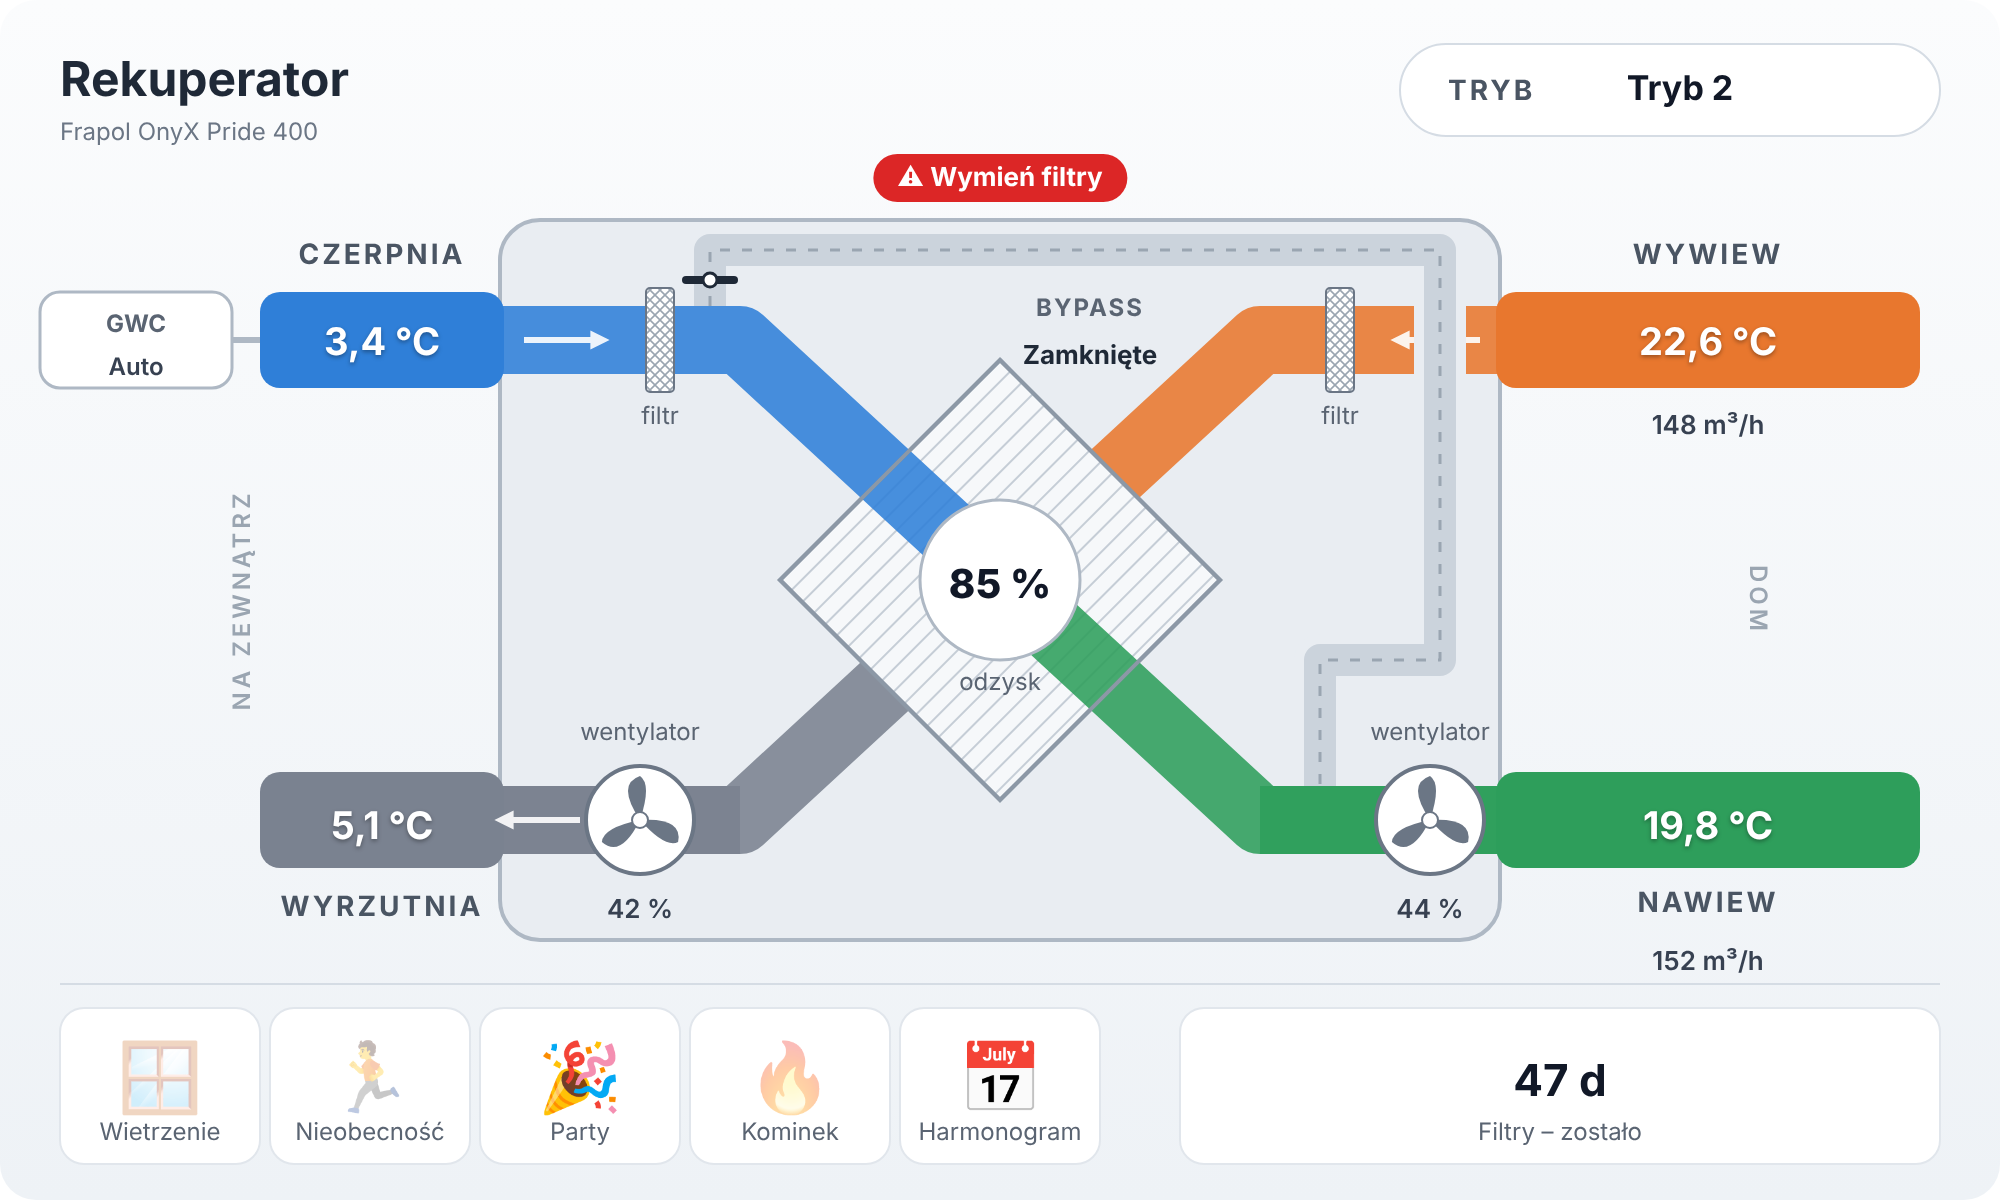
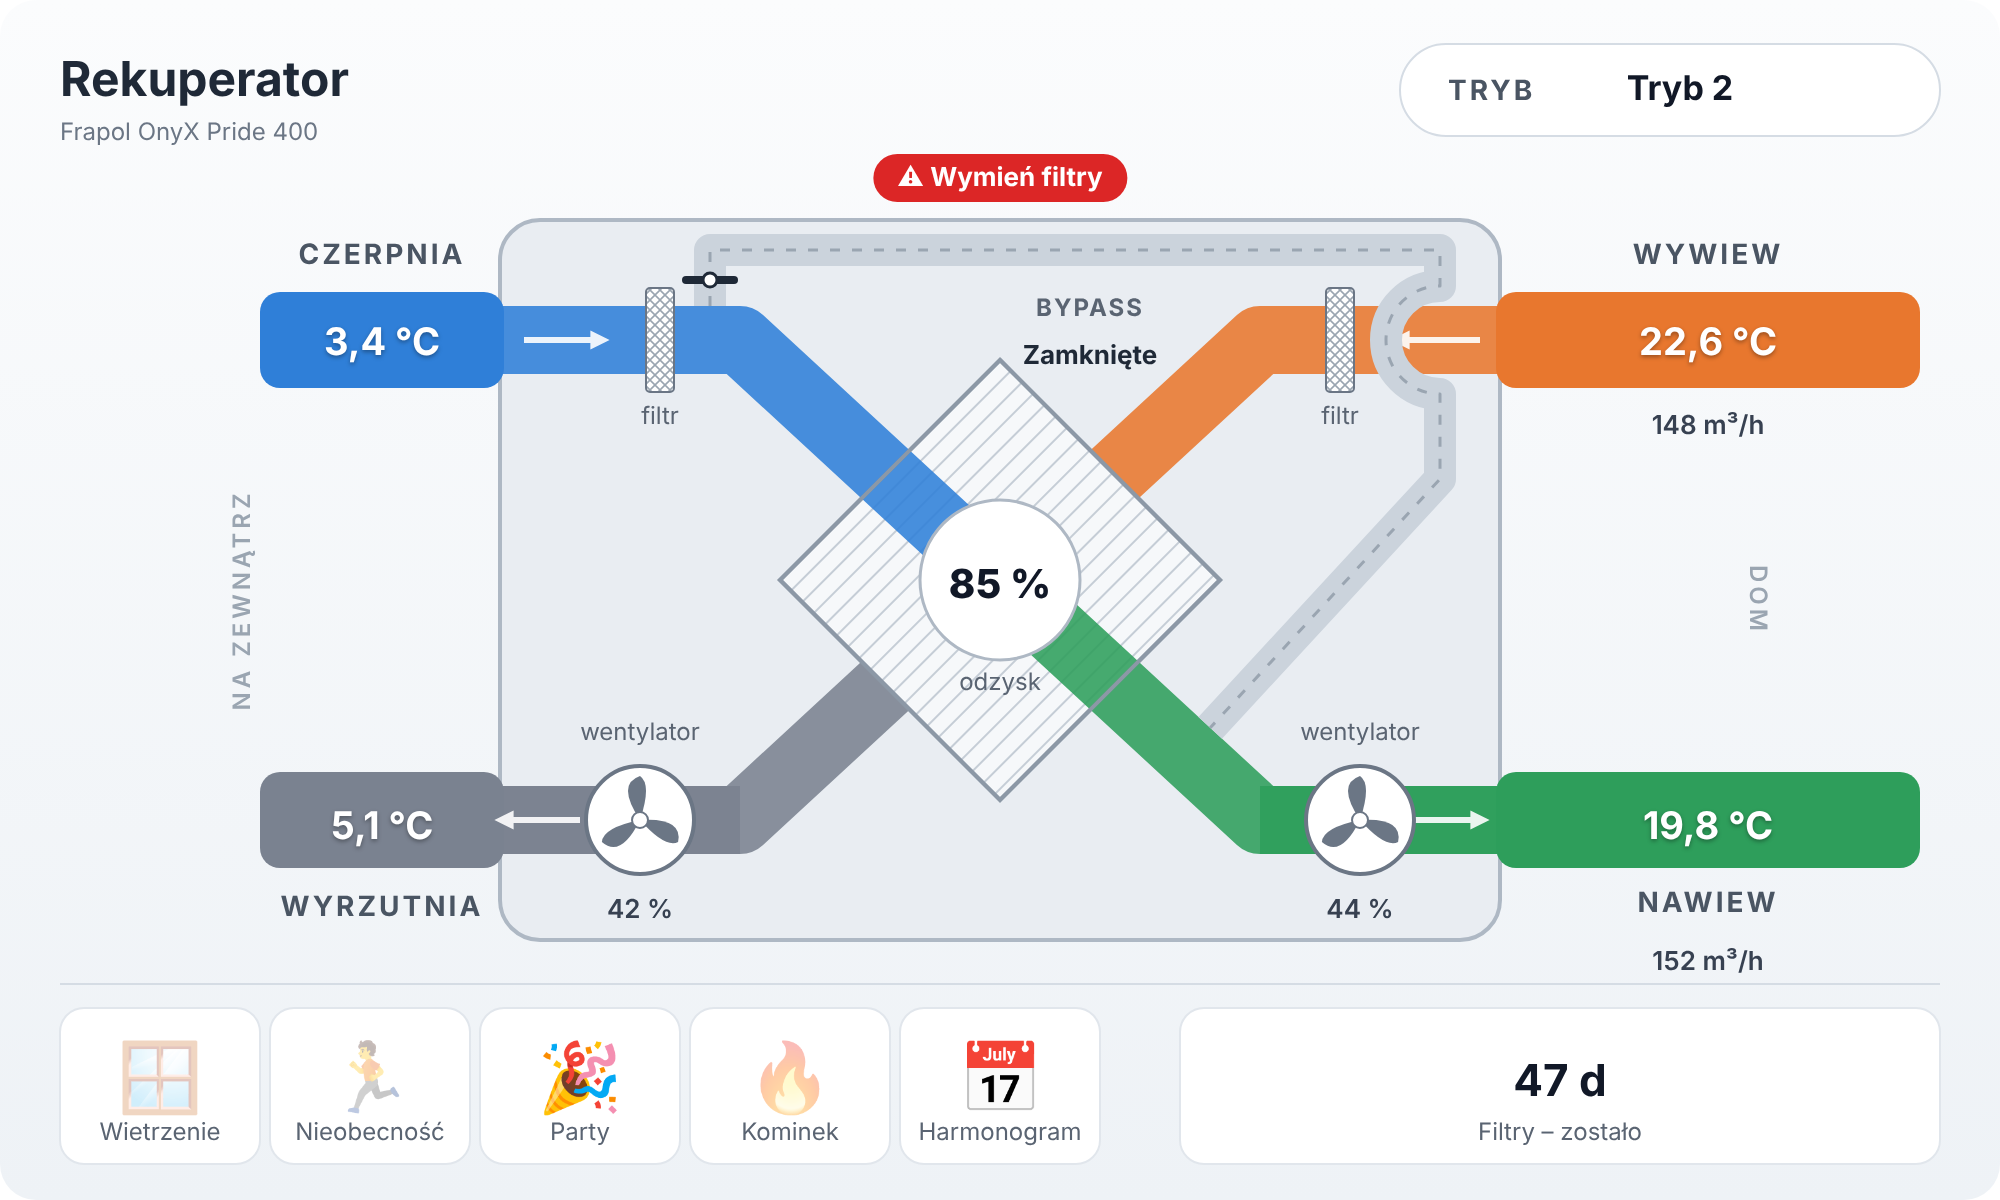
Karta HA: bypass wpięty w połowie rury nawiewu, łuk nad wywiewem, bez GWC
Claude-Session: https://claude.ai/code/session_01R8YUZUrg6cfm7iCmu66c6t

diff --git a/README.md b/README.md
@@ -42,4 +42,4 @@ Konfiguracja: [`esphome/rekuperator.yaml`](esphome/rekuperator.yaml) · Schemat:
 2. Na dashboardzie wybierz Dodaj kartę → Ręcznie i wklej [`ha/karta-rekuperator.yaml`](ha/karta-rekuperator.yaml).
 3. Porównaj ID encji z listą w Ustawienia → Urządzenia → Rekuperator.
 
-Kliknięcie trybu lub GWC otwiera okno zmiany. Kliknięcie ikony w dolnym pasku przełącza tryb specjalny. Otwarty bypass jest podświetlony na niebiesko, zamknięty jest szary, a przepustnica jest ustawiona w poprzek kanału ([podgląd](docs/podglad-karty-bypass-zamkniety.png)). Czerwone komunikaty (awaria, filtry, oszronienie) pojawiają się tylko wtedy, gdy alarm jest aktywny.
+Kliknięcie trybu otwiera okno zmiany. Kliknięcie ikony w dolnym pasku przełącza tryb specjalny. Otwarty bypass jest podświetlony na niebiesko, zamknięty jest szary, a przepustnica jest ustawiona w poprzek kanału ([podgląd](docs/podglad-karty-bypass-zamkniety.png)). Czerwone komunikaty (awaria, filtry, oszronienie) pojawiają się tylko wtedy, gdy alarm jest aktywny.
